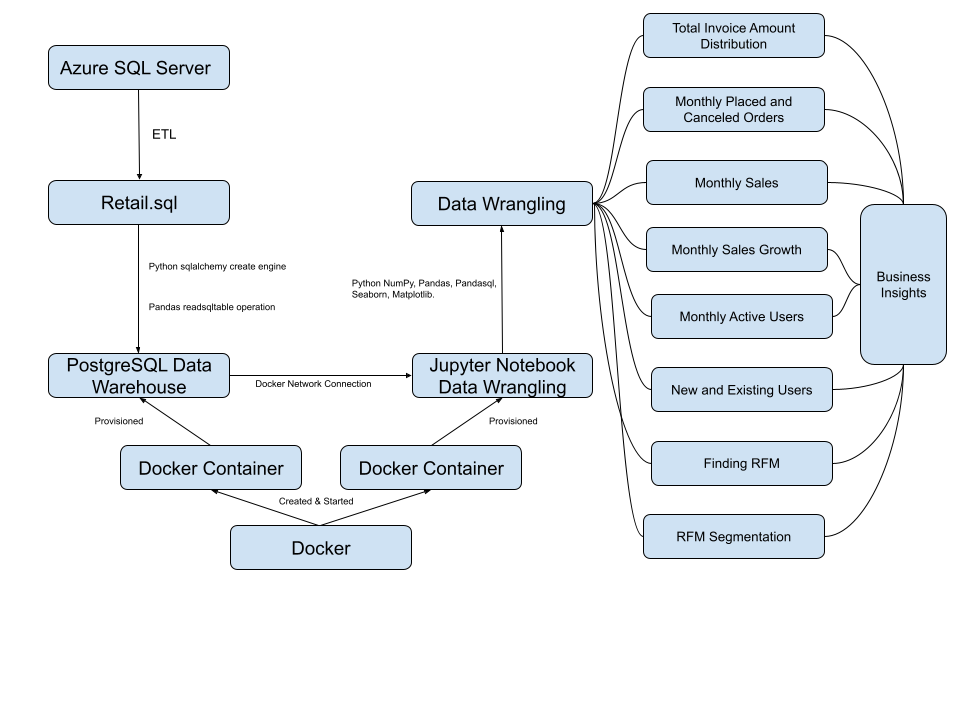
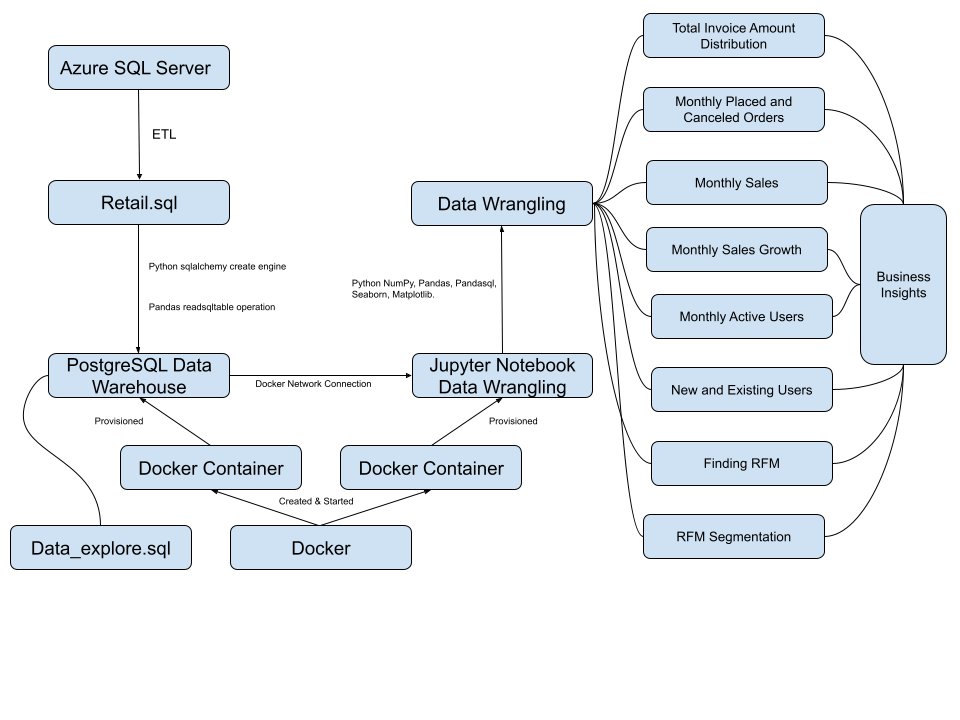
README.md Update and Architecture Update

Changed region(s): [[0.0, 0.7028, 0.2188, 0.7944]]

diff --git a/python_data_analytics/psql/README.md b/python_data_analytics/psql/README.md
@@ -24,7 +24,8 @@ The Jarvis Data Team used Docker, PostgreSQL, Jupyter Notebook, Python Sqlalchem
 ## Project Architecture
 The LGS Web APP uses Azure services in backend API management, frontend, and database servers. Since it's a PoC project, the Jarvis team does not have access to work in the LGS Azure Environment.
 The LGS ETLed the data between december 2009 to december 2011 into a sql file and shared this sql file with the Jarvis Data Team. 
-The Jarvis team stored the data in a PostgreSQL instance provisioned by docker. This PostgreSQL instance serves as the data warehouse, the foundation for the next step: data wrangling. 
+The Jarvis team stored the data in a PostgreSQL instance provisioned by docker. The Jarvis Team performed data exploration with data_explore.sql, gaining preliminary apprehension to the dataset.
+Also, this PostgreSQL instance serves as the data warehouse, the foundation for the next step: data wrangling. 
 The Jarvis Data Team constructed a Jupyter Notebook instance through docker, connected the Jupyter instance with the PostgreSQL instance through a docker network.
 This essentially helps the data team to import data from the PostgreSQL instance into Jupyter Notebook as a data frame for further analysis purposes. The Jarvis team led comprehensive data analysis towards the imported data and generated business insights based on the analysis results.
 
